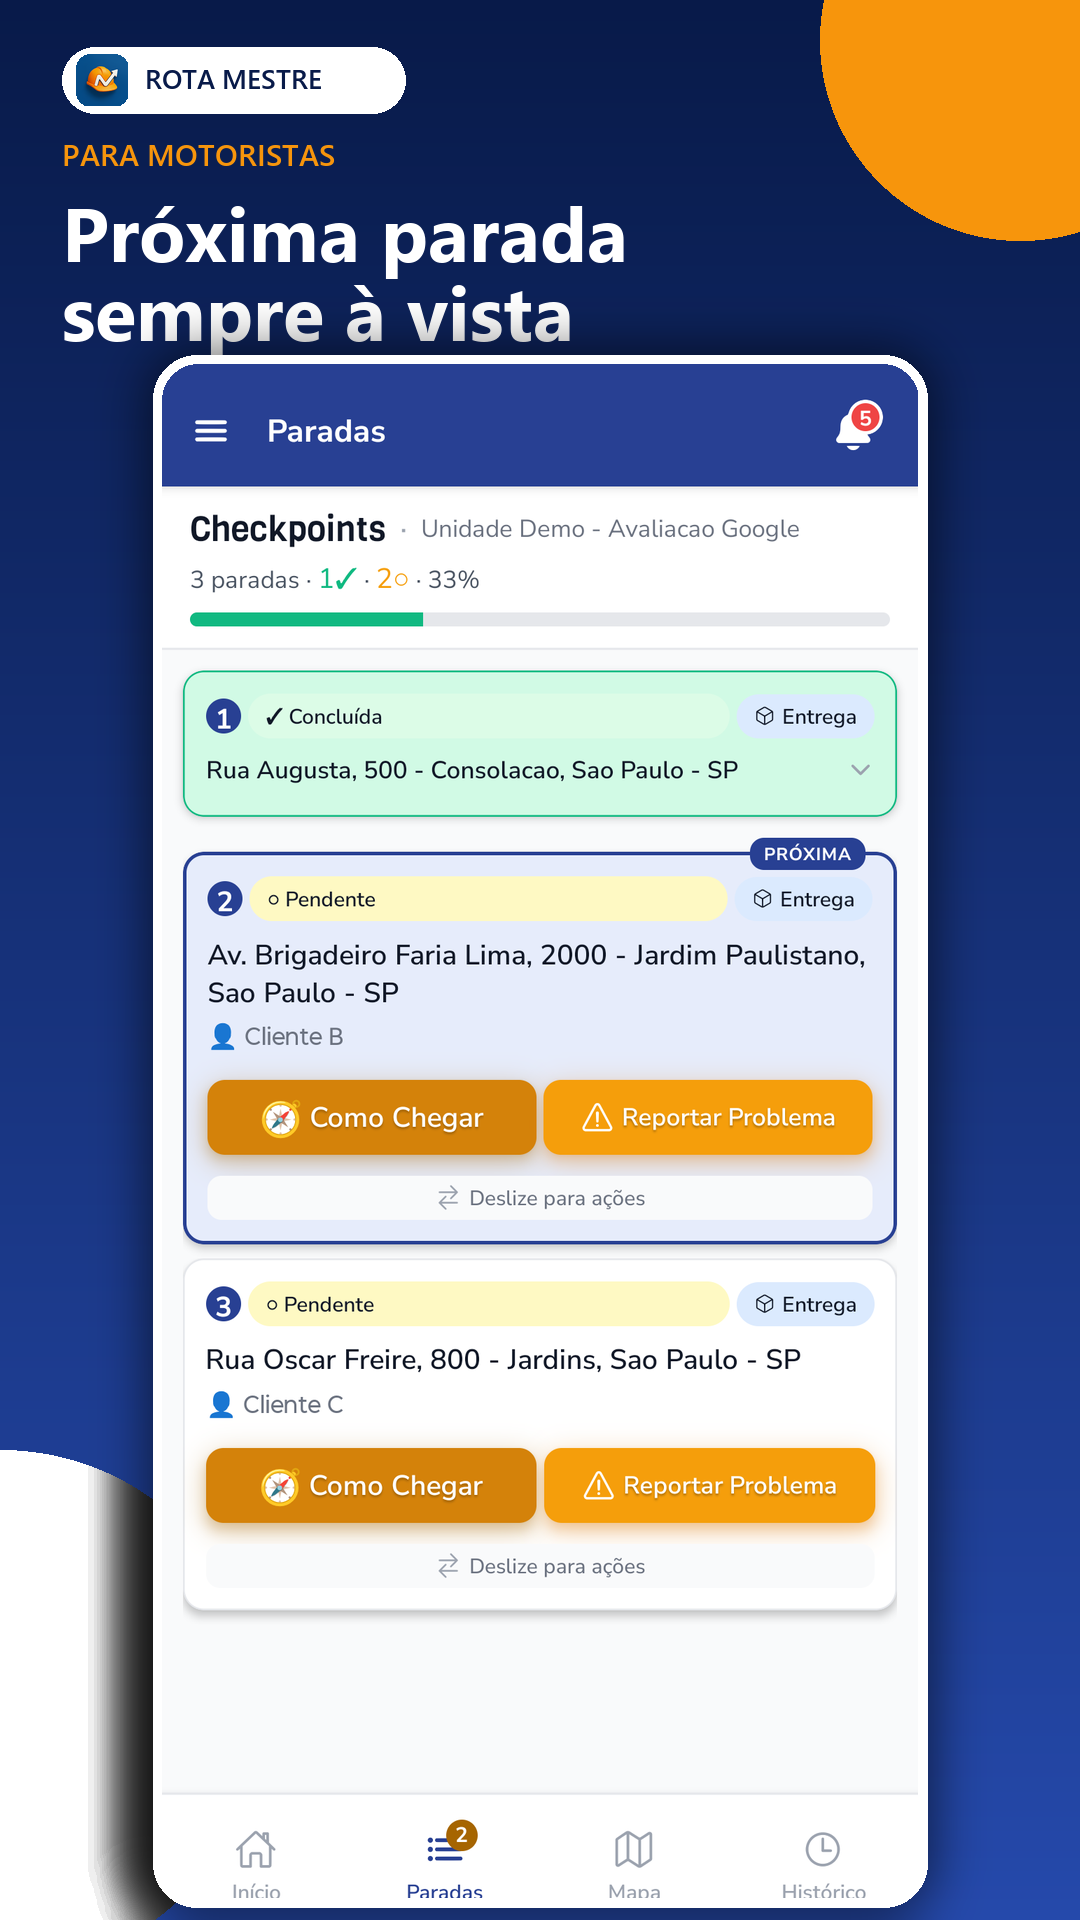
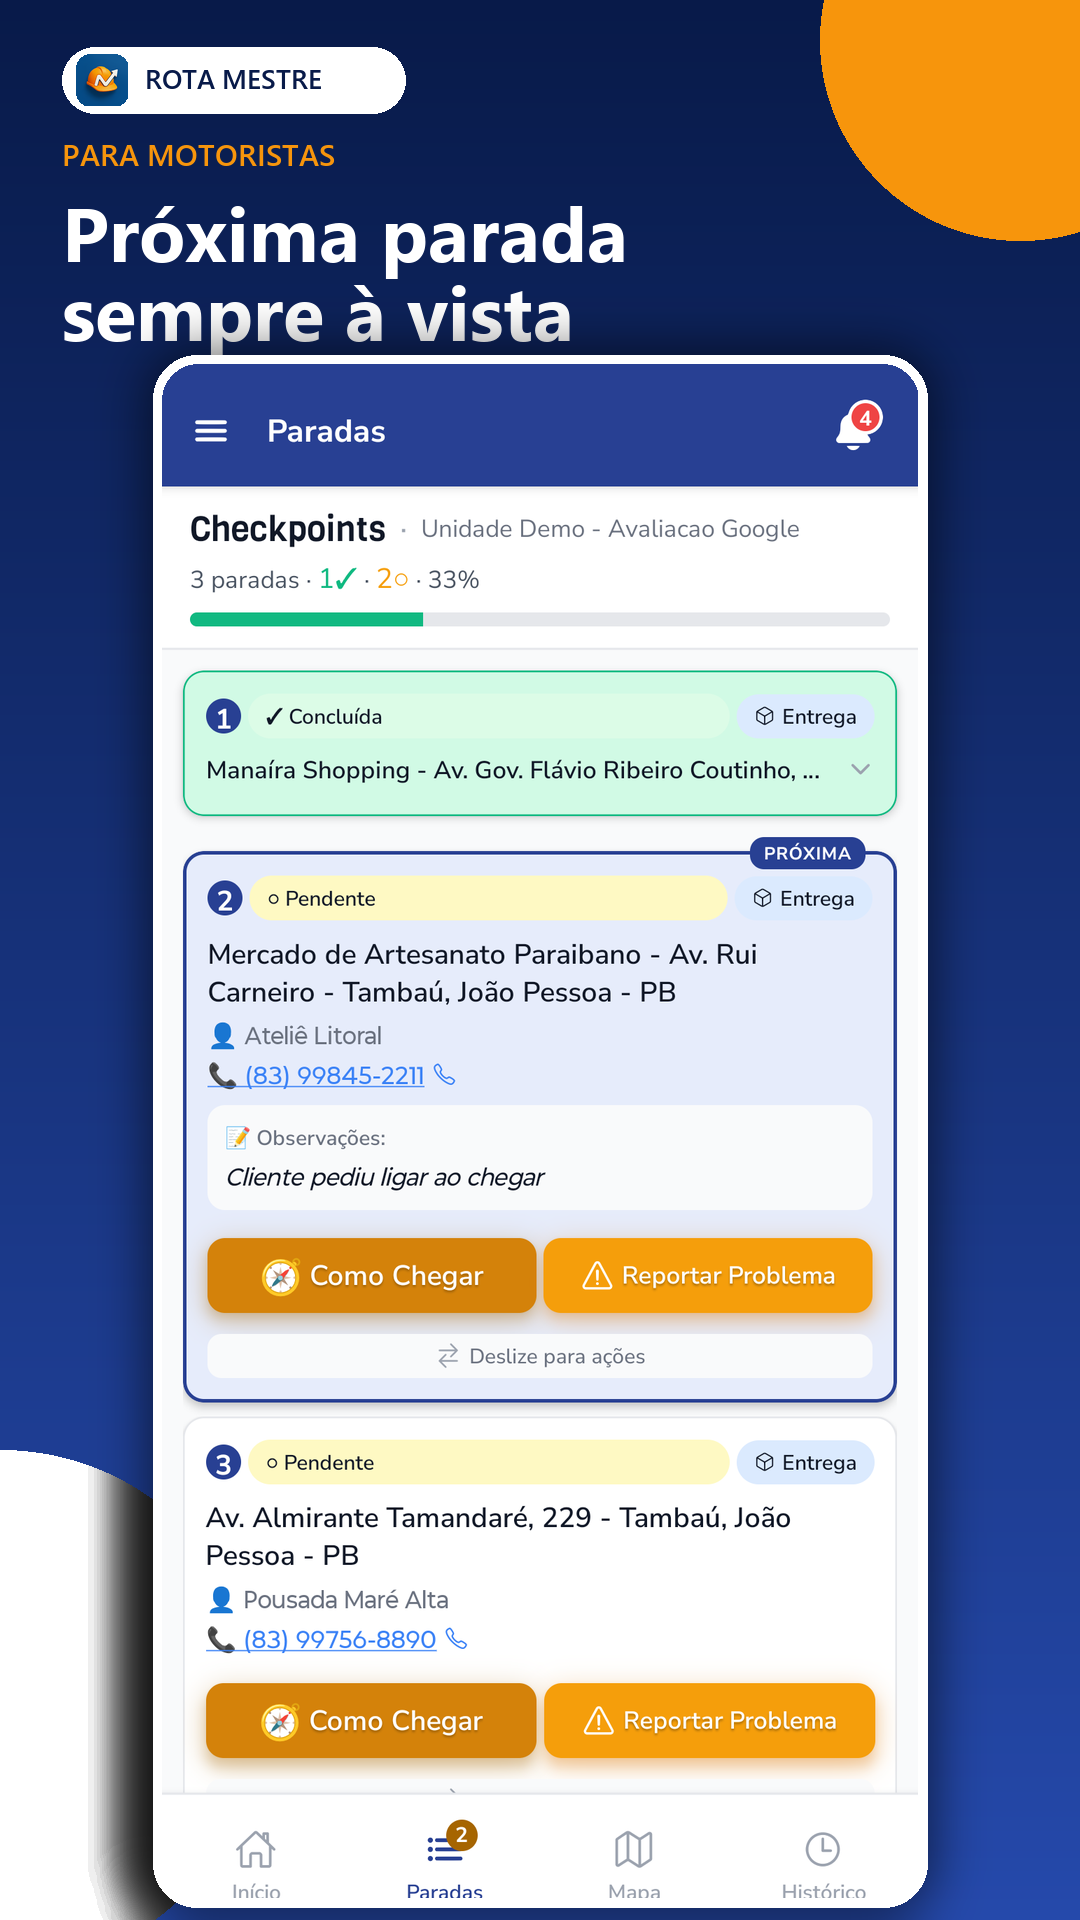
chore(loja): assets publicados na Play + registro da massa demo
Alinha o repositorio com o que ja esta no ar. Os 7 screenshots refeitos e o
feature graphic novo estavam soltos na arvore: o repo afirmava uma coisa e a
loja mostrava outra.

- 7 dos 8 screenshots finais atualizados (o 08 nao mudou);
- feature-graphic-1024x500-v2.png entra como o publicado e a versao sem -v2
  sai, junto com a referencia a ela em play-store-metadata.md — deixar as duas
  lado a lado nao dizia qual estava no ar;
- play-store-metadata.md com data 08/08, o split raw/ vs final/ e os 8 titulos
  novos.

Registra tambem a massa demo inserida direto por SQL em 08/08: 4 rotas na
unidade de avaliacao com UUIDs fixos (...020 a ...023), uma em andamento com
1 concluida e 2 pendentes, tres concluidas no historico. Sem esse registro
ninguem saberia de onde vieram nem como limpar. Inclui a limitacao conhecida:
as paradas concluidas nao tem foto, porque upload ao bucket privado so
acontece pelo app com sessao autenticada.

Fecha a pendencia do destino de raw/, ja resolvida pelo .gitignore no #362.

Changed region(s): [[0.1528, 0.4375, 0.8556, 0.9375], [0.3972, 0.375, 0.7333, 0.4062], [0.1833, 0.375, 0.3667, 0.4062]]

diff --git a/docs/PROJECT_CONTEXT.md b/docs/PROJECT_CONTEXT.md
@@ -16,12 +16,13 @@ Lista única e canônica. Se resolver uma, risque daqui.
 | 5   | **iOS:** não existe build. Bloqueado na autenticação interativa da Apple (`npx eas-cli build --platform ios --profile production`).                                                                                                                                                                                                                                                                          | gestor (Apple ID + 2FA)                        | `APP_STORE_DEPLOYMENT.md`                              |
 | 6   | **Validar o onboarding self-service ponta a ponta.** A migration foi aplicada em 06/08/2026 e o código mergeado. Falta o teste manual: cadastro com e-mail descartável → confirmar → login → tela de onboarding → criar unidade → **criar um motorista** (prova `usuarios.unidade_id`) → **criar uma rota** (prova as coordenadas da sede). Nenhum teste automatizado cobre isso — nenhum toca o banco real. | gestor (cria dado real)                        | `database/MIGRATIONS.md` (Migration 21)                |
 | 7   | **4 das 9 unidades têm `sede_endereco` com coordenadas NULL** — não conseguem gerar rota. A tela "Minha Unidade" é o caminho de conserto e desde 08/08 funciona de verdade (ver Migration 22 e a armadilha do componente aninhado). Falta passar unidade por unidade.                                                                                                                                        | gestor (edita cada unidade)                    | `database/MIGRATIONS.md` (Migration 22)                |
-| 8   | **Decidir o destino de `assets/store/screenshots/phone/raw/`** — hoje untracked. Commitar ou colocar no `.gitignore`; deixar como está gera ruído em todo `git status`.                                                                                                                                                                                                                                      | qualquer sessão                                | —                                                      |
 
 **Fechadas em 08/08/2026, não reabra:** a Migration 22 foi aplicada em
 07/08 e validada na tela (edição gravou no banco; `.update()` direto continua
 falhando); o **primeiro build EAS sob Node 22** aconteceu — build `3025`,
-que resolveu o Node pelo `.nvmrc` e passou sem ajuste.
+que resolveu o Node pelo `.nvmrc` e passou sem ajuste; os assets da loja foram
+resolvidos — `final/` versionado, `raw/` no `.gitignore`, e os 8 screenshots
+mais o feature graphic v2 refeitos e commitados com a listagem já publicada.
 
 Follow-ups menores (nenhum bloqueia): Timeline não narra o autor da otimização
 (o dado existe em `logs.usuario_id`, falta join em `useTimelineData.ts`);
@@ -49,6 +50,32 @@ espelho do estado atual** — foi possível medir que a alteração manual custo
 610 m. Os 3 logs saíram corretos (incluindo `desfez_otimizacao: true`, que só
 grava `true` se o UPDATE de fato passou) e a Timeline narrou os 3 eventos.
 A rota de teste foi cancelada em seguida.
+
+### Massa demo criada por SQL em 08/08/2026
+
+A Unidade Demo (`aaaa0000-0000-4000-8000-000000000001`) tem 4 rotas inseridas
+**direto por SQL**, fora do fluxo do app, para servirem de cenário nos
+screenshots da loja. UUIDs fixos e reconhecíveis:
+
+| id (sufixo) | data  | status       | conteúdo                             |
+| ----------- | ----- | ------------ | ------------------------------------ |
+| `…020`      | 08/08 | em_andamento | 3 entregas: 1 concluída, 2 pendentes |
+| `…021`      | 07/08 | concluída    | 3 entregas, todas concluídas         |
+| `…022`      | 06/08 | concluída    | 3 entregas, todas concluídas         |
+| `…023`      | 05/08 | concluída    | 3 entregas, todas concluídas         |
+
+Endereços reais de João Pessoa, destinatários fictícios, distância e duração
+coerentes com o trajeto. Respeitam o invariante de partida/chegada
+(`is_checkpoint = false` na primeira e na última ordem).
+
+**Limitação conhecida:** as paradas concluídas **não têm `foto_url`**, então a
+tela mostra o placeholder "Sem foto registrada". Preencher exigiria upload real
+ao bucket privado `fotos-entrega`, que só acontece pelo app com sessão
+autenticada — não dá por SQL.
+
+Para remover: `delete from public.rotas where id in (…020, …021, …022, …023)`
+(as paradas caem por cascade). Não confunda com dado de cliente: nada disso
+existe fora da unidade de avaliação.
 
 ## Armadilhas que já custaram caro
 

diff --git a/docs/play-store-metadata.md b/docs/play-store-metadata.md
@@ -1,6 +1,6 @@
 # Google Play — metadados canônicos do Rota Mestre
 
-Atualizado em 24/07/2026. Este arquivo é a fonte de verdade para a listagem,
+Atualizado em 08/08/2026. Este arquivo é a fonte de verdade para a listagem,
 declarações e acesso de avaliação do pacote `br.tec.rotamestre.app`.
 
 ## Identificação
@@ -69,20 +69,28 @@ período grátis, sem documentação comercial que as comprove.
 Arquivos finais:
 
 - Ícone: `assets/store/icon-512.png` — PNG 512 × 512, até 1.024 KB.
-- Feature graphic: `assets/store/feature-graphic-1024x500.png` — PNG 1024 × 500.
-- Screenshots de telefone: `assets/store/screenshots/phone/` — de 2 a 8
+- Feature graphic: `assets/store/feature-graphic-1024x500-v2.png` — PNG
+  1024 × 500. **É o publicado.** A versão sem `-v2` foi removida em 08/08/2026
+  para não deixar dúvida sobre qual está no ar.
+- Screenshots de telefone: `assets/store/screenshots/phone/final/` — 8
   imagens 1080 × 1920, sem dados reais de clientes.
+
+As capturas originais do Android ficam em `assets/store/screenshots/phone/raw/`
+e não devem ser enviadas ao Play Console.
+
+As 8 capturas foram refeitas em 08/08/2026 com as contas demo renovadas, uma
+rota atual de João Pessoa e dados fictícios exclusivos da unidade de avaliação.
 
 Sequência recomendada:
 
-1. Login
-2. Painel do gestor
-3. Nova entrega
-4. Rota e paradas
-5. Tela inicial do motorista
-6. Navegação
-7. Comprovante
-8. Histórico ou desempenho
+1. Gestão em um só lugar
+2. Crie rotas em poucos passos
+3. Acompanhe toda a operação
+4. Visualize a rota e cada parada
+5. Próxima parada sempre à vista
+6. Todas as paradas no mapa
+7. Navegue com seu app favorito
+8. Ajuda sempre à mão
 
 ## Acesso para avaliação
 
